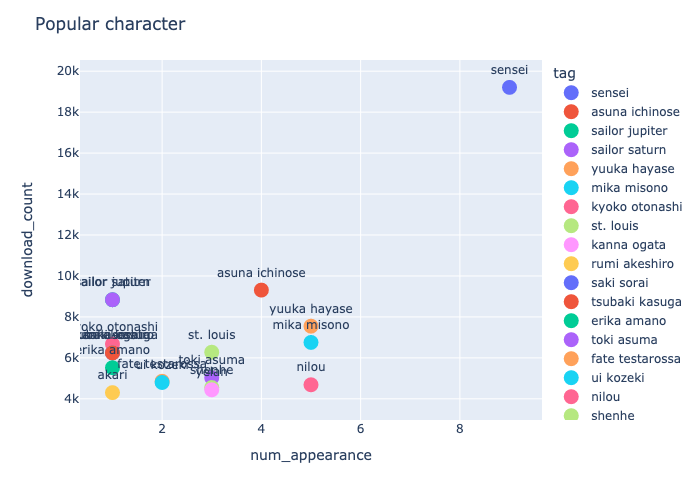
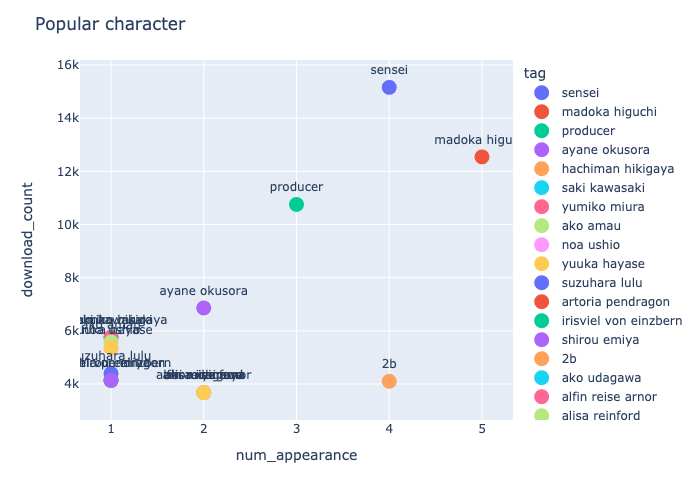
fix and add list gallery and preview

diff --git a/util.py b/util.py
@@ -1,6 +1,7 @@
 import requests
 from bs4 import BeautifulSoup
 import pandas as pd
+import numpy as np
 from tqdm import tqdm
 
 import random
@@ -9,13 +10,17 @@ import time
 api_url = "https://api.e-hentai.org/api.php"
 headers = {}
 
+#Sleep between request websites to prevent getting blocked
 def sleepSome():
-    sleep_time = random.uniform(1, 10)
+    sleep_time = random.uniform(1, 5)
     time.sleep(sleep_time)
 
-def getRaw(page_range = 20):
+#Web scrap e-hentai.org and get the every gallery on the pages
+def getRaw(start_page = 1, page_range = 20, save = False):
+    if(start_page == 0):
+        start_page = 1
     url_list = []
-    for i in tqdm(range(1, page_range + 1)):
+    for i in tqdm(range(start_page, page_range + 1)):
         url = "https://e-hentai.org/?f_srdd=4&advsearch=1&range={}".format(i)
         response = requests.get(url, headers=headers)
         if response.status_code == 200:
@@ -28,7 +33,6 @@ def getRaw(page_range = 20):
         else:
             print("fail")
         sleepSome()
-
     l = []
     for url in url_list:
         gid = url.split("/")[-3]
@@ -36,40 +40,11 @@ def getRaw(page_range = 20):
         l.append([gid, token])
 
     df = pd.DataFrame(l, columns=["gid", "token"])
+    if save:
+        df.to_csv('hentai_data.csv', index=False)
+    return df
 
-    csv_filename = 'hentai_data_raw.csv'
-    df.to_csv(csv_filename, index=False)
-
-def getDownloadCount(gid, token):
-    url = f"https://e-hentai.org/gallerytorrents.php?gid={gid}&t={token}"
-    response = requests.get(url, headers=headers)
-    total_downloads = 0
-    valid = True
-    if response.status_code == 200:
-        soup = BeautifulSoup(response.text, 'html.parser')
-        td_elements = soup.find_all('td', style="width:100px; text-align:center")
-        if len(td_elements) == 0:
-            valid = False
-        for td in td_elements:
-            if "Downloads:" in td.text:
-                downloads = int(td.text.split(":")[1])
-                total_downloads += downloads
-        print("Total Downloads:", total_downloads)
-    return total_downloads, valid
-
-def getDownload():
-    df = pd.read_csv('hentai_data_raw.csv')
-    l = []
-    for index, row in df.iterrows():
-        gid = row['gid']
-        token = row['token']
-        download, valid = getDownloadCount(gid, token)
-        if valid:
-            l.append([gid, token, download])
-        sleepSome()
-    df_result = pd.DataFrame(l, columns=["gid", "token", "downloads"])
-    df_result.to_csv("hentai_data.csv", index=False)
-
+#Get the tag of one gid and token
 def getTags(gid, token):
     payload = {
         "method": "gdata",
@@ -84,26 +59,69 @@ def getTags(gid, token):
     if response.status_code == 200:
         json_data = response.json()
         tags = json_data["gmetadata"][0]["tags"]
-        print(tags)
-    return tags
+        title = json_data["gmetadata"][0]["title"]
+        tqdm.write(str(tags[:5]))
+    return tags, title
 
-def getAllTags():
-    df = pd.read_csv('hentai_data.csv')
-    l = []
+#Get every tag from a list of gid and token
+def getAllTags(df = None, save = False):
+    if df is None:
+        df = pd.read_csv('hentai_data.csv')
+    df["tag"] = np.nan
+    df["title"] = ""
 
-    for index, row in df.iterrows():
+    for index, row in tqdm(df.iterrows(), total=df.shape[0]):
         gid = row['gid']
         token = row['token']
-        download = row['downloads']
-        tag = getTags(gid, token)
-        l.append([gid, token, download, tag])
+        tag, title = getTags(gid, token)
+        if len(tag) > 1:
+            df.at[index,'tag'] = str(tag)
+        df.at[index,'title'] = title
         time.sleep(random.uniform(1, 10))
+    if save:
+        df.to_csv("hentai_data.csv", index=False)
+    df = df.dropna()
+    return df
 
-    df_result = pd.DataFrame(l, columns=["gid", "token", "downloads", "tag"])
-    df_result.to_csv("hentai_data_all.csv", index=False)
+#Get the total download count of a gid and token
+def getDownloadCount(gid, token):
+    url = "https://e-hentai.org/gallerytorrents.php?gid={}&t={}".format(gid, token)
+    response = requests.get(url, headers=headers)
+    total_downloads = 0
+    valid = True
+    if response.status_code == 200:
+        soup = BeautifulSoup(response.text, 'html.parser')
+        td_elements = soup.find_all('td', style="width:100px; text-align:center")
+        if len(td_elements) == 0:
+            valid = False
+        for td in td_elements:
+            if "Downloads:" in td.text:
+                downloads = int(td.text.split(":")[1])
+                total_downloads += downloads
+    return int(total_downloads), valid
 
-def getTagWithDownloads():
-    df = pd.read_csv("hentai_data_all.csv")
+#Get the download count from a list of gid and token
+def getDownload(df = None, save = True):
+    if df is None:
+        df = pd.read_csv('hentai_data.csv')
+    df["downloads"] = np.nan
+    for index, row in tqdm(df.iterrows(), total=df.shape[0]):
+        gid = row['gid']
+        token = row['token']
+        download, valid = getDownloadCount(gid, token)
+        if valid:
+            tqdm.write("{} Total Downloads: {}".format(row['title'][:20], download))
+            df.at[index,'downloads'] = int(download)
+        sleepSome()
+    df = df.dropna()
+    if save:
+        df.to_csv("hentai_data.csv", index=False)
+    return df
+
+#Associate each tag with its total download
+def getTagWithDownloads(df = None, save = True):
+    if df is None:
+        df = pd.read_csv("hentai_data.csv")
 
     tag_dict = {} #Format: tag -> download_count, category, num_appearance
 
@@ -123,5 +141,44 @@ def getTagWithDownloads():
     sorted_tags = dict(sorted(tag_dict.items(), key=lambda x: x[1], reverse=True))
 
     res_df = pd.DataFrame.from_dict(sorted_tags, orient='index', columns=["download_count", "category", "num_appearance"]).rename_axis("tag").reset_index()
-    res_df.to_csv("hentai_data_tag.csv", index=False)
+    if save:
+        res_df.to_csv("hentai_data_tag.csv", index=False)
+    return res_df
+
+#List the galleries with a certain tag
+def listGalleryWithTag(tag):
+    df = pd.read_csv("hentai_data.csv")
+    l = []
+    for index, row in df.iterrows():
+        if tag in row["tag"]:
+            print("Title: {}, GID: {}, Token: {}".format(row["title"], row["gid"], row["token"]))
+            l.append([row["gid"], row["token"]])
+    return l
+
+#Get one random image from the first page of a gallery
+def previewPage(gid, token):
+    url = "https://e-hentai.org/g/{}/{}".format(gid, token)
+    response = requests.get(url, headers=headers)
+    if response.status_code == 200:
+        soup = BeautifulSoup(response.text, 'html.parser')
+        image_links = soup.find_all('a')
+        images = []
+        for image in image_links:
+            href = image.get('href')
+            if href is not None and "{}-".format(gid) in href:
+                images.append(href)
+        if len(images) == 0:
+            print("No Image Available")
+        sleepSome()
+        select = random.choice(images)
+        response = requests.get(select, headers=headers)
+        soup = BeautifulSoup(response.text, 'html.parser')
+        image_link = soup.find('img', {"id": 'img'})
+        image_url = image_link.get("src")
+        sleepSome()
+        response = requests.get(image_url, headers=headers)
+        image_data = response.content
+        local_file_path = "preview_image.jpg"
+        with open(local_file_path, 'wb') as file:
+            file.write(image_data)
 

diff --git a/plot.py b/plot.py
@@ -9,6 +9,7 @@ def basicPlot(df, save_name, show = False):
     fig = px.scatter(df, x="num_appearance", y="download_count", text="tag", color="tag")
     fig.update_traces(marker={'size': 15}, textposition='top center', hovertemplate="%{text}<extra></extra>")
     fig.update_layout(title_text="Popular {}".format(save_name))
+
     fig.write_image("images/{}.png".format(save_name))
     if show:
         fig.show()
@@ -17,7 +18,7 @@ def plotOverall():
     if not os.path.exists(save_folder):
         os.mkdir(save_folder)
 
-    df = pd.read_csv("back/hentai_data_tag.csv")
+    df = pd.read_csv("hentai_data_tag.csv")
 
     overall = df.head(20)
     basicPlot(overall, "overall")
@@ -31,4 +32,5 @@ def plotOverall():
 
 if __name__ == '__main__':
     plotOverall()
+   
     

diff --git a/main.py b/main.py
@@ -1,14 +1,19 @@
 import util, plot
 
+#Replace with "my user agent". Type that in Google and copy the result
 headers = {
-    'User-Agent': 'Mozilla/5.0 (Macintosh; Intel Mac OS X 10_15_7) AppleWebKit/537.36 (KHTML, like Gecko) Chrome/118.0.0.0 Safari/537.36'
+    'User-Agent': ''
 }
 
 util.headers = headers
 
-util.getRaw(page_range = 2)
-util.getDownload()
-util.getAllTags()
-util.getTagWithDownloads()
+df = util.getRaw(start_page = 1, page_range = 10)
+df = util.getAllTags(df)
+df = util.getDownload(df)
+res_df = util.getTagWithDownloads(df)
 
+print("---------")
+util.listGalleryWithTag("original")
+
+res_df = util.getTagWithDownloads()
 plot.plotOverall()
